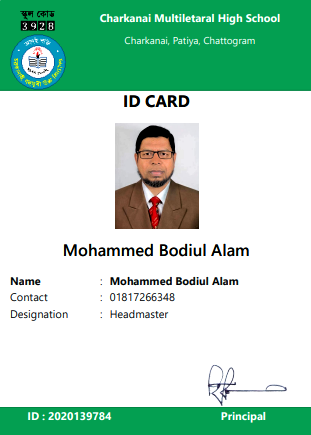
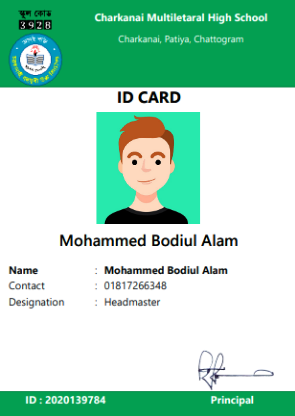
Image Updated for Design ID Card.

diff --git a/resources/views/admin/student/studentIdCard.blade.php b/resources/views/admin/student/studentIdCard.blade.php
@@ -36,7 +36,7 @@
                                 <div class="col-md-6">
                                     <div class="col-md-6">
                                         <a href="{{ route('student.generateStudentCard_v2') }}">
-                                            <img src="{{ asset('assets/img/studentIdCard/studentId_2.png') }}"
+                                            <img src="{{ asset('assets/img/studentIdCard/studentId_2.jpeg') }}"
                                                 alt="" width="270" height="450">
                                         </a>
                                     </div>
